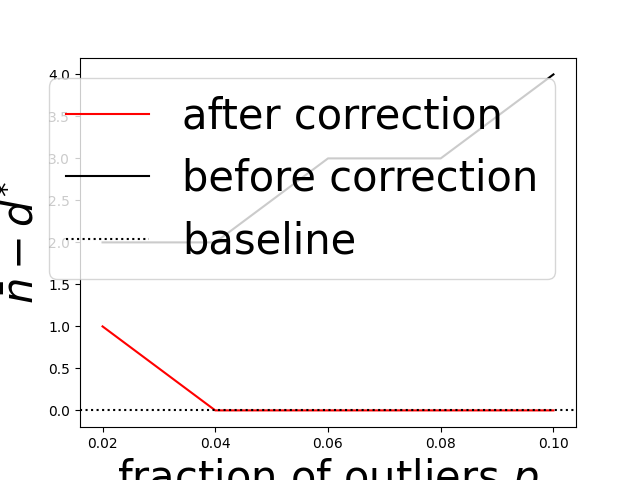
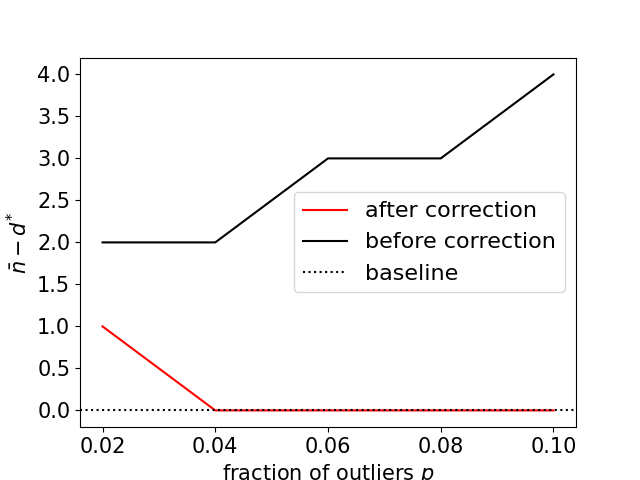
regenerated dim 40 figure

diff --git a/exp_synthetic/test_synthetic_outlier_fraction.py b/exp_synthetic/test_synthetic_outlier_fraction.py
@@ -49,7 +49,9 @@ plt.plot(props, dim_pred_diff, c="red", label = "after correction")
 plt.plot(props, dim_raw_diff, c="black", label = "before correction")
 plt.axhline(y=0, color='black', linestyle='dotted', label="baseline")
 plt.xticks(props)
-plt.xlabel(r'fraction of outliers $p$', fontsize=30)
-plt.ylabel(r'$\bar{n}-d^{*}$', fontsize=30)
-plt.legend(fontsize=30)
+plt.xlabel(r'fraction of outliers $p$', fontsize=15)
+plt.ylabel(r'$\bar{n}-d^{*}$', fontsize=15)
+plt.xticks(fontsize=15)
+plt.yticks(fontsize=15)
+plt.legend(fontsize=16)
 plt.savefig("./outputs/synthetic_dim40.png")
